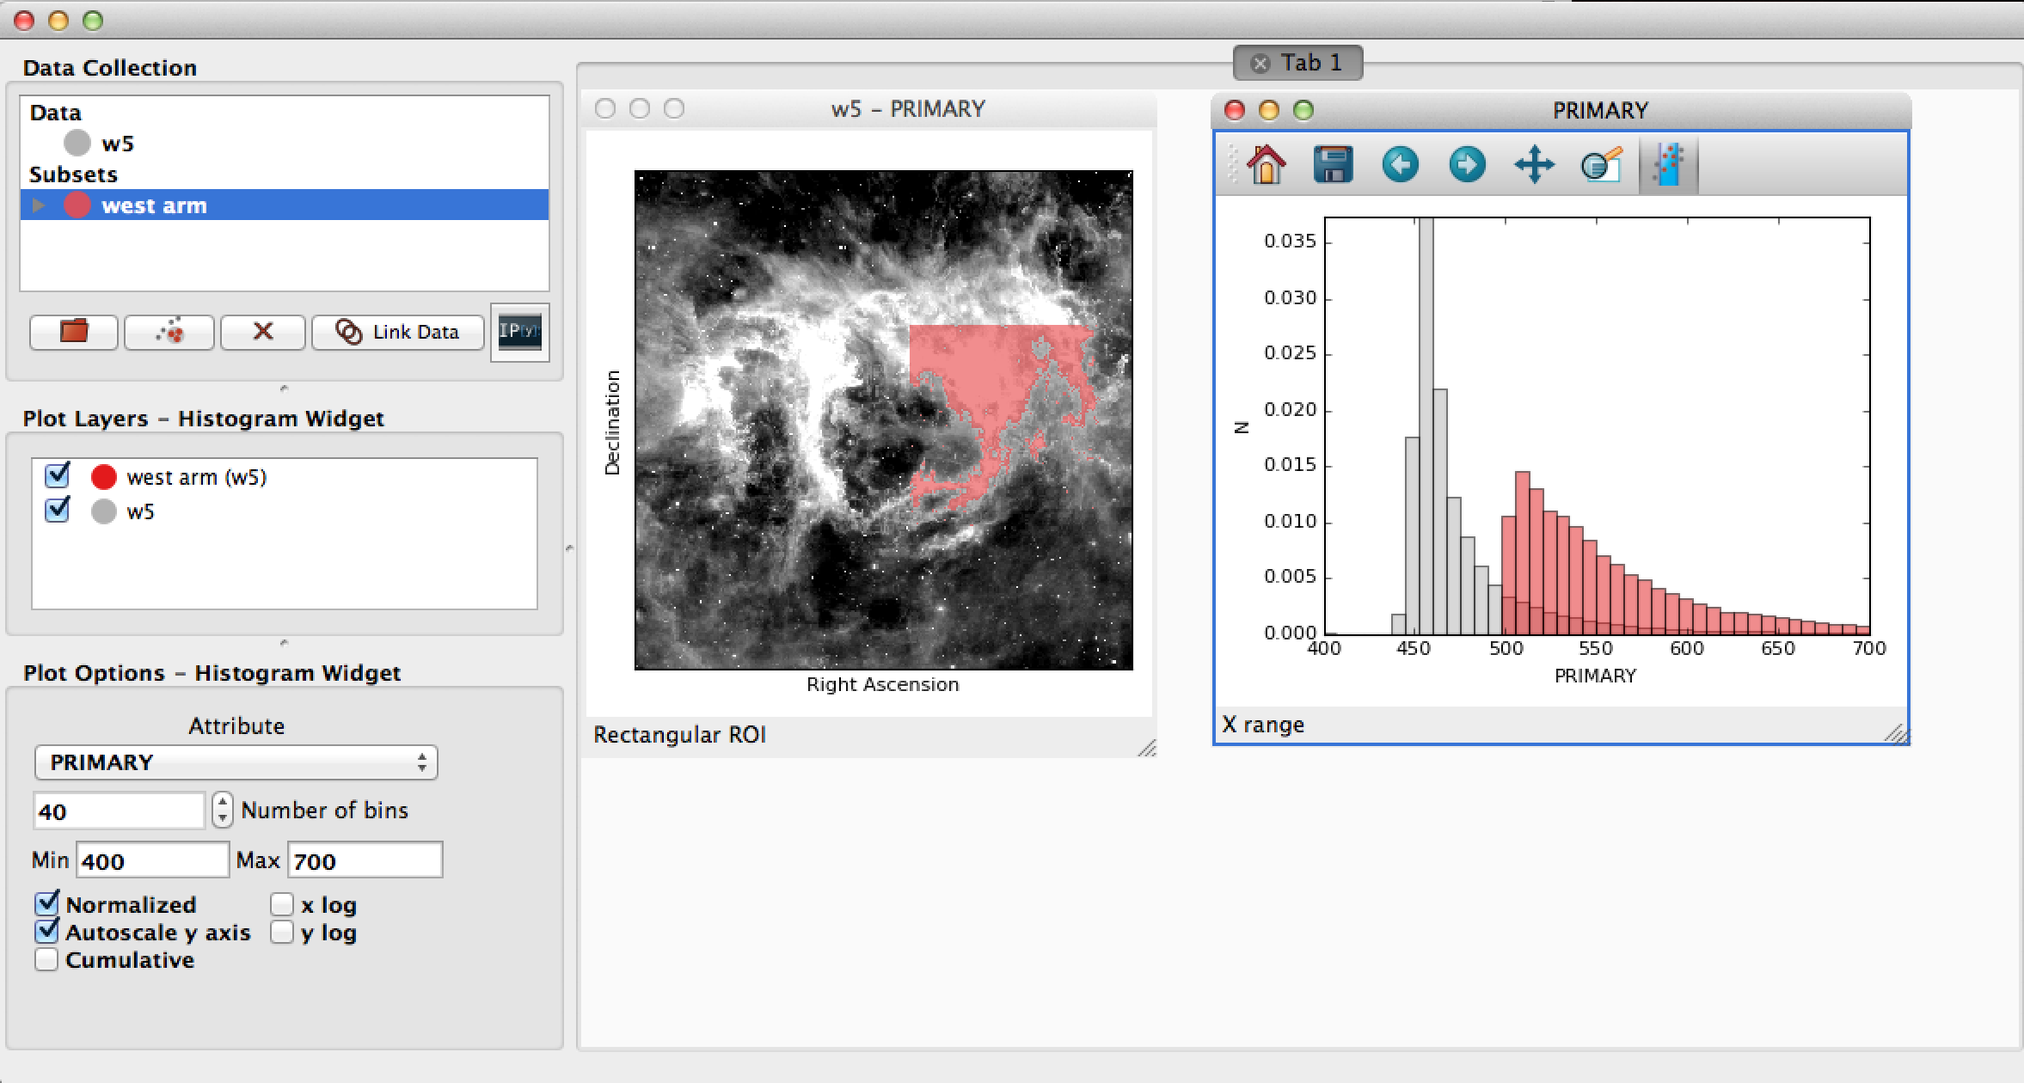
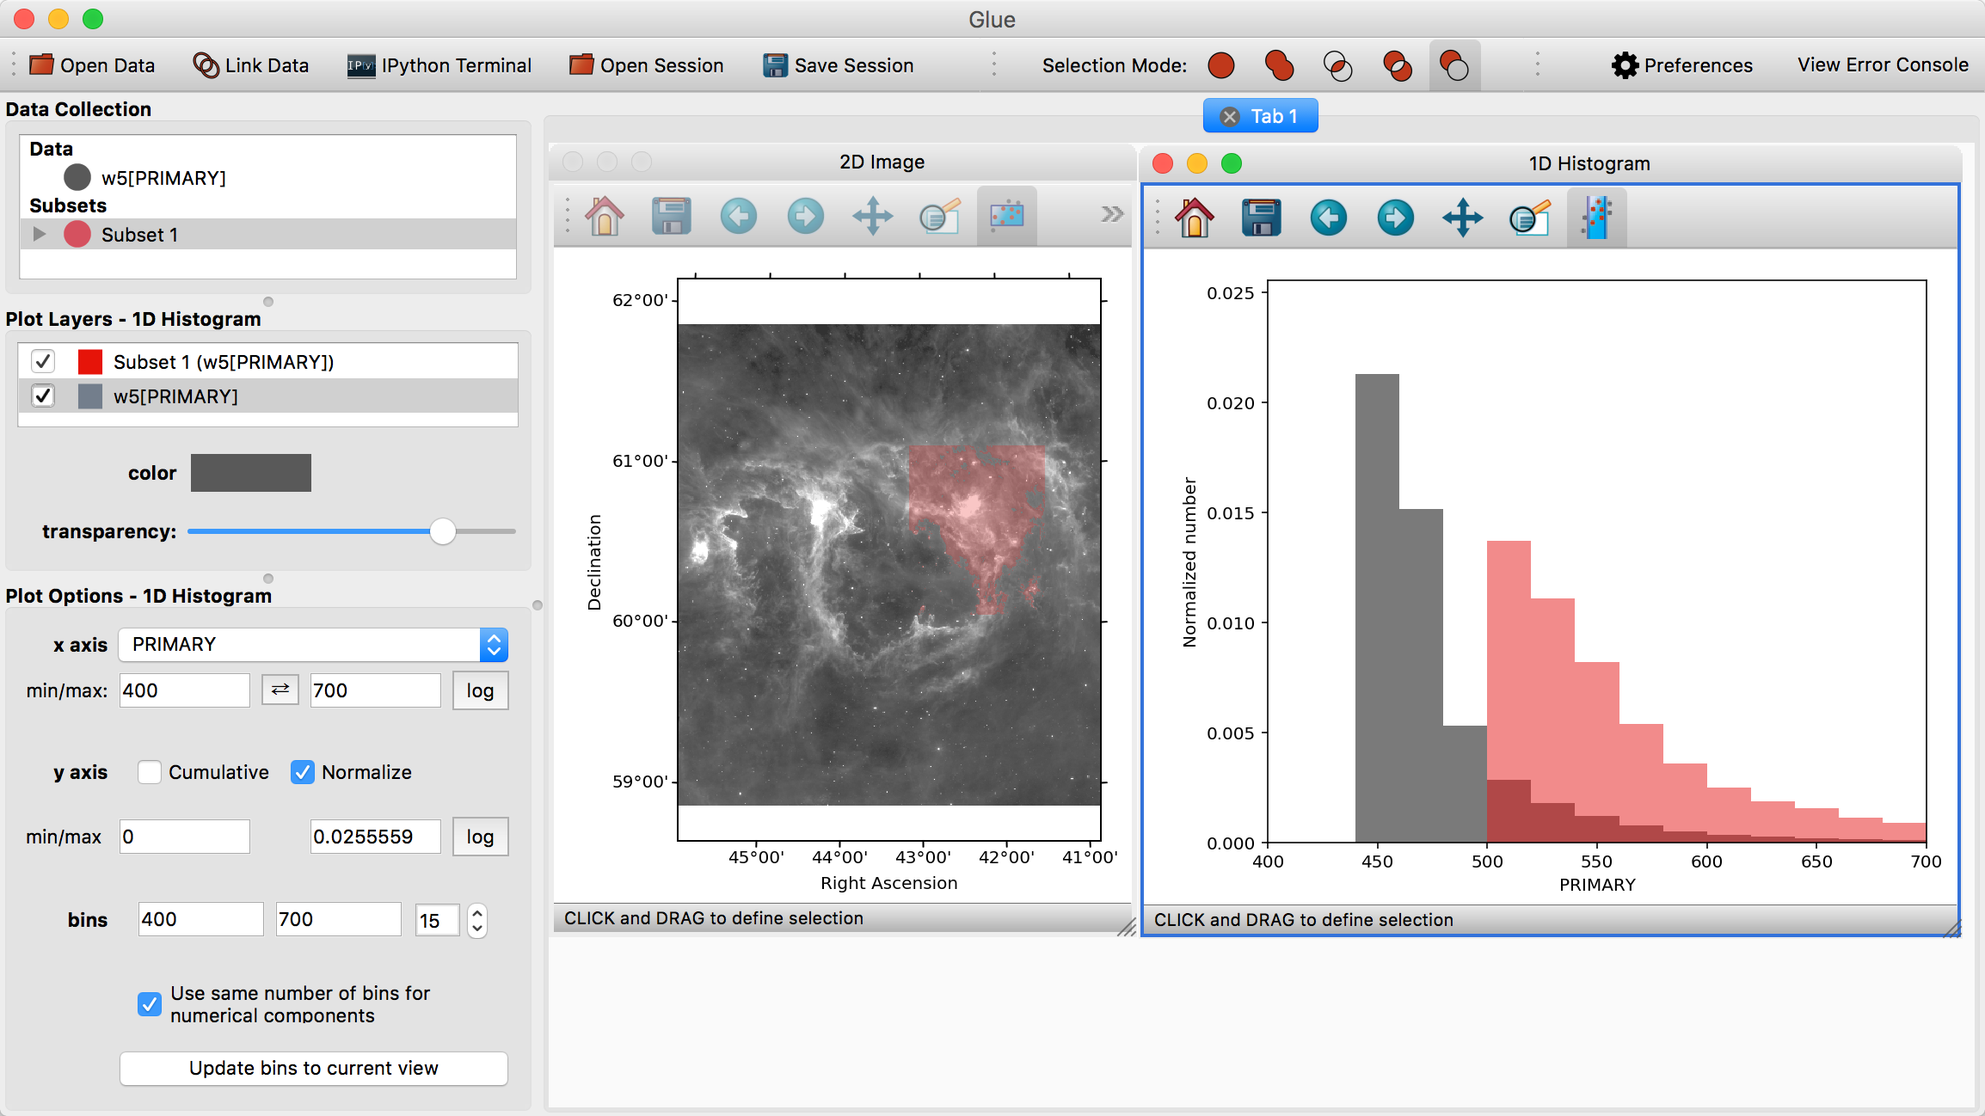
Update getting started guide with new screenshots and updated text

diff --git a/doc/getting_started/index.rst b/doc/getting_started/index.rst
@@ -9,137 +9,204 @@ forming region as an example. You can download the data files for this tutorial 
 * :download:`w5.tgz` (Linux and MacOS X)
 * :download:`w5.zip` (Windows)
 
-After :ref:`installing <installation>` Glue, open the program by either double
-clicking on the icon (if using a pre-built application) or from the command
-line::
+After :ref:`installing <installation>` Glue, you can launch it by typing::
 
     glue
 
+or by clicking on the Glue icon in the Anaconda Navigator if using it. After a
+few seconds you should see the main window of glue which looks like this:
+
 .. figure:: images/main_window.png
    :align: center
-   :width: 500px
+   :width: 100%
 
-   Glue's main interface
+The main window consists of 4 areas:
 
-The main window consists of 3 areas:
-
- A. The **data manager**. This lists all open data sets and subsets (highlighted regions).
- B. The **visualization area**. This is where each visualization window resides.
- C. The **visualization dashboard**. This shows the options for the active visualization window.
-
+ A. The **data collection**. This lists all open data sets and subsets (highlighted regions).
+ B. The **viewer layers**. This is where you will see a list of layers in the current viewer, and be able to control the appearance of individual layers
+ C. The **viewer options**. This is where you will see global options for the active viewer
+ D. The **visualization canvas**. This is where visualization windows resides.
 
 Opening Data
 ============
-There are three ways to open data: By clicking on the red folder icon, the ``File->Open Data Set`` menu, or ``Ctrl+O`` (``Cmd+O`` on the Mac). Find and open the file ``w5.fits``. This is a `WISE image <http://wise.ssl.berkeley.edu/>`_ of the `W5 Star Forming Region <http://en.wikipedia.org/wiki/Soul_Nebula>`_.
+
+There are multiple ways to open data:
+
+* By clicking on the red folder icon in the top left
+* By selecting the **Open Data Set** item under the **File** menu or using the
+  equivalent shortcut (e.g. **Ctrl+O** on Linux, **Cmd+O** on Mac).
+* By dragging and dropping data files onto the main window
+
+  Find and open the file ``w5.fits`` which should be in the ``w5.tgz`` or
+  ``w5.zip`` archive you downloaded above. This is a `WISE image
+  <http://wise.ssl.berkeley.edu/>`_ of the `W5 Star Forming Region
+  <http://en.wikipedia.org/wiki/Soul_Nebula>`_. While this is an astronomical
+  dataset, glue can be used for data in any discipline, and many of the concepts
+  shown below are applicable to many types of dataset.
 
 Plotting Data
 =============
-After opening ``w5.fits``, a new entry will appear in the data manger:
+
+After opening ``w5.fits``, a new entry will appear in the data manager:
 
 .. figure:: images/data_open.png
    :align: center
-   :width: 500px
+   :width: 100%
 
-To visualize a dataset, click and drag the entry from the data manager to the visualization dashboard. A popup window asks about what kind of plot to make. Since this is an image, select ``Image``.
+To visualize a dataset, click and drag the entry from the data manager to the
+visualization dashboard. A popup window asks about what kind of plot to make.
+Since this is an image, select **2D Image Viewer**.
 
 Defining Subsets
 ================
-Work in glue revolves around "drilling down" into interesting subsets within data. Each visualization type (image, scatterplot, …) provides different ways for defining these subsets. In particular, the image window provides 4 options:
 
- .. figure:: images/image_selectors.png
+Work in glue revolves around "drilling down" into interesting subsets within
+data. Each visualization type (image, scatterplot, ...) provides different ways
+for defining these subsets. In particular, the image window provides 5 options:
 
-* Rectangular selection: When active, a click+drag defines rectangular regions of interest.
-* Circular selection: Defines circles.
-* Freeform selection: Defines arbitrary polygons.
-* Contour selection: Uses the contour line that passes through the mouse.
+.. figure:: images/image_selectors.png
+   :align: center
+   :width: 300
+
+* Rectangular selection
+* Horizontal range
+* Vertical range
+* Circular selection
+* Freeform selection
+
+To use these, click on one of the selection icons then click and drag on the
+image to define a selection. If using the polygon selection, you should press
+'enter' when the selection is complete (or 'escape' to cancel).
 
 We can highlight the west arm of W5 using the rectangle selector:
 
  .. figure:: images/w5_west.png
     :align: center
-    :width: 500px
+    :width: 100%
 
-Notice that this highlights the relevant pixels in the image, adds a new subset (which we've named ``west arm``) to the data manager, and adds a new visualization layer (also labeled ``west arm (w5)``) in the visualization dashboard.
+Notice that this highlights the relevant pixels in the image, adds a new subset
+(named **Subset 1**) to the data manager, and adds a new visualization layer in
+the visualization dashboard.
 
 We can redefine this subset by dragging a new rectangle in the image, or we can
 also move around the current subset by pressing the 'control' key and clicking
-on the subset then dragging it. Alternately, we could define a second subset by
-clicking the ``New Subset`` button (next to the folder button).
+on the subset then dragging it. As long as **Subset 1** is selected in the data
+collection view in the top left, drawing selections will redefine **Subset 1**.
+If you un-select this subset and draw a new region, a new subset will be
+created.
 
-.. _multi_selection_note:
-.. note:: When multiple subsets are defined, only the highlighted entries in the data manager are affected when drawing new subsets. If no subsets are highlighted, then a new subset is created.
-
-You can edit the properties of a visualization layer (color, name, etc.) By double-clicking on the entry in the visualization dashboard.
-
-  .. figure:: images/layer_options.png
-     :align: center
-     :width: 200px
-
-Likewise, you can re-arrange the rows in this widget to change the order in which each layer is drawn -- the top entry will appear above all other entries.
+You can edit the properties of a visualization layer (color, transparency, etc.)
+by clicking on the layer in the **Plot layers** list on the left. Likewise, you
+can re-arrange the rows in this widget to change the order in which each layer
+is drawn -- the top entry will appear above all other entries.
 
 Refining Subsets and Linked Views
 =================================
-Visualizations are linked in Glue -- that is, we can plot this data in many different ways, to better understand the properties of each subset. To see this, click and drag the ``W5`` entry into the visualization area a second time, and make a histogram. Edit the settings in the histogram visualization dashboard to produce something similar to this:
+
+Visualizations are linked in Glue -- that is, we can plot this data in many
+different ways, to better understand the properties of each subset. To see this,
+click and drag the **W5[PRIMARY]** entry into the visualization area a second
+time, and make a histogram. Edit the settings in the histogram visualization
+dashboard to produce something similar to this:
 
  .. figure:: images/histogram.png
     :align: center
-    :width: 500px
+    :width: 100%
 
-This shows the distribution of intensities for the image as a whole (gray), and for the subset in red (the label ``PRIMARY`` comes from the FITS header)
+This shows the distribution of intensities for the image as a whole (gray), and
+for the subset in red (the label **PRIMARY** comes from the FITS header)
 
-Perhaps we wish to remove faint pixels from our selection. To do this, we first enable the selection mode toolbar via ``Toolbars->Selection Mode Toolbar``, and then pick the last mode (``Remove From Selection`` mode).:
+Perhaps we wish to remove faint pixels from our selection. To do this, we pick
+the last mode (**Remove From Selection**) from the selection mode toolbar:
 
  .. figure:: images/modes.png
     :align: center
+    :width: 300
 
-When this mode is active, new regions defined by the mouse are subtracted from the selected subsets. Thus, I can highlight the region between x=450-500 in the histogram to remove this region from the data.
+When this mode is active, new regions defined by the mouse are subtracted from
+the selected subsets. We can therefore highlight the region between x=450-500 in
+the histogram to remove this region from the data.
 
 .. figure:: images/subset_refine.png
    :align: center
-   :width: 500px
+   :width: 100%
 
-.. note:: Make sure you switch back to the first, default combination mode (``Replace Selection`` mode)
+.. note:: Make sure you switch back to the first, default selection mode
+          (**Replace Selection**) once you have finished defining the
+          selection.
 
 Linking Data
 ============
+
 .. _getting_started_link:
 
-Glue is designed so that visualization and drilldown can span multiple datasets. To do this, we need to inform Glue about the logical connections that exist between each dataset.
+Glue is designed so that visualization and drilldown can span multiple datasets.
+To do this, we need to inform Glue about the logical connections that exist
+between each dataset.
 
-Open ``w5_psc.vot`` -- a catalog of *Spitzer*-identified point sources towards this region. You will see a new entry in the data manager.
+Open the second file, ``w5_psc.vot`` -- a catalog of *Spitzer*-identified point
+sources towards this region. You will see a new entry in the data manager. We
+can double click on that entry to rename it to **Point Sources**, and the result
+will look like this:
 
 .. figure:: images/psc_layer.png
    :align: center
    :width: 400px
 
-At this point, you can visualize and drilldown into this catalog. However, Glue doesn't know enough to intercompare the catalog and image. To do that, we must ``Link`` these two data entries. Click on the ``Link Data`` button in the data manager. This brings up a new window, showing all the pieces of information within each dataset:
+At this point, you can visualize and drilldown into this catalog. However, Glue
+doesn't know enough to intercompare the catalog and image. To do that, we must
+*Link* these two data entries. Click on the ``Link Data`` button in the toolbar.
+This brings up a new window, showing all the pieces of information within each
+dataset:
 
 .. figure:: images/link_editor.png
    :align: center
-   :width: 400px
 
-The image has an attribute ``Right Ascension``. This is the same quantity as the ``RAJ2000`` attribute in the ``w5_psc`` catalog -- they are both describing Right Ascension (the horizontal spatial coordinate on the sky). Select these entries, and click ``Glue`` to instruct the program that these quantities are equivalent. Likewise, link ``Declination`` and ``DEJ2000`` (Declination, the other coordinate). Click ``OK``.
+The image has an attribute **Right Ascension**. This is the same quantity as the
+**RAJ2000** attribute in the **Point Sources** dataset -- they are both
+describing Right Ascension (the horizontal spatial coordinate on the sky).
+Select these entries, and click **Glue** to instruct the program that these
+quantities are equivalent. Likewise, link **Declination** and **DEJ2000**
+(Declination, the other coordinate). Click **OK**.
 
-.. note::
-   What does this do? This tells Glue how to derive the catalog-defined quantities ``DEJ2000`` and ``RAJ2000`` using data from the image, and vice versa. In this case, the derivation is simple (it aliases the quantity ``Declination`` or ``Right Ascension``). In general, the derivation can be more complex (i.e. an arbitrary function that maps quantities in the image to a quantity in the catalog). Glue uses this information to apply subset definitions to different data sets, overplot multiple datasets, etc.
+.. note:: What does this do? This tells Glue how to derive the catalog-defined
+          quantities **DEJ2000** and **RAJ2000** using data from the image, and
+          vice versa. In this case, the derivation is simple (it aliases the
+          quantity **Declination** or **Right Ascension**). In general, the
+          derivation can be more complex (i.e. an arbitrary function that maps
+          quantities in the image to a quantity in the catalog). Glue uses this
+          information to apply subset definitions to different data sets,
+          overplot multiple datasets, etc.
 
-After these connections are defined, subsets that are defined via spatial constraints in the image can be used to filter rows in the catalog. Let's see how that works.
+After these connections are defined, subsets that are defined via spatial
+constraints in the image can be used to filter rows in the catalog. Let's see
+how that works.
 
-First, make a scatter plot of the point source catalog. Then, delete the West Arm subset (by highlighting it and clicking the ``X`` button). Then, highlight a new region in the image. You should see this selection applied to both plots:
+First, make a scatter plot of the point source catalog. Then, select **Subset
+1** and draw a new region on the image. You should see this selection applied to
+all plots:
 
 .. figure:: images/link_subset_1.png
    :align: center
-   :width: 500px
+   :width: 100%
 
-You can also overplot the catalog rows on top of the image. To do this, click the arrow next to the new subset -- this shows the individual selections applied to each dataset. Click and drag the subset for the point source catalog on top of the image. To see these points more easily, you may want to disable the
-selection applied to the image itself by unchecking the `East arm (w5)` entry in the plot layer window.
+You can also overplot the catalog rows on top of the image. To do this, click
+the arrow next to the new subset -- this shows the individual selections applied
+to each dataset. Click and drag the subset for the point source catalog on top
+of the image. To see these points more easily, you may want to disable the
+layer showing all the points (named **Point Sources**) in the list of plot
+layers.
 
 .. figure:: images/link_subset_2.png
    :align: center
-   :width: 500px
+   :width: 100%
 
 
-Glue is able to apply this filter to both datasets because it has enough information to apply the spatial constraint in the image (fundamentally, a constraint on ``Right Ascension`` and ``Declination``) to a constraint in the catalog (since it could derive thsoe quantities from the ``RAJ2000`` and ``DEJ2000`` attributes).
+Glue is able to apply this filter to both datasets because it has enough
+information to apply the spatial constraint in the image (fundamentally, a
+constraint on **Right Ascension** and **Declination**) to a constraint in the
+catalog (since it could derive those quantities from the **RAJ2000** and
+**DEJ2000** attributes).
 
 .. tip::
 
@@ -149,22 +216,35 @@ Glue is able to apply this filter to both datasets because it has enough informa
     y < top). Copying a subset copies this definition, and pasting it
     applies the definition to a different subset.
 
-As was mentioned :ref:`above <multi_selection_note>`, the highlighted subsets in the data manager are the ones which are affected by selecting regions in the plots. Thus, instead of manually copy-pasting subsets from the image to the catalog, you can also highlight both subsets before selecting a plot region. This will update both subsets to match the selection.
+As was mentioned above, the highlighted subsets in the data manager are the ones
+which are affected by selecting regions in the plots. Thus, instead of manually
+copy-pasting subsets from the image to the catalog, you can also highlight both
+subsets before selecting a plot region. This will update both subsets to match
+the selection.
 
-.. note:: Careful readers will notice that we didn't use the image subset from earlier sections when working with the catalog. This is because that selection combined spatial constraints (the original rectangle in the image) with a constraint on intensity (the histogram selection). There is no mapping from image intensity to quantities in the catalog, so it isn't possible to filter the catalog on that subset. In situations where Glue is unable to apply a filter to a dataset, it doesn't render the subset in the visualization.
-
+.. note:: Careful readers will notice that we didn't use the image subset
+          from earlier sections when working with the catalog. This is because
+          that selection combined spatial constraints (the original rectangle in
+          the image) with a constraint on intensity (the histogram selection).
+          There is no mapping from image intensity to quantities in the catalog,
+          so it isn't possible to filter the catalog on that subset. In
+          situations where Glue is unable to apply a filter to a dataset, it
+          doesn't render the subset in the visualization.
 
 .. _saving_session:
 
 Saving your work
 ================
-Glue provides a number of ways to save your work, and to export your work for further analysis in other programs.
+
+Glue provides a number of ways to save your work, and to export your work for
+further analysis in other programs.
 
 **Saving The Session**
 
-You can save a Glue session for later work via the ``File->Save Session``
-menu. This creates a glue session file (the preferred file extension is
-``.glu``). You can restore this session later via ``File->Open Session``.
+You can save a Glue session for later work via the **Save Session** button in
+the toolbar or in the **File** menu. This creates a glue session file (the
+preferred file extension is ``.glu``). You can restore this session later via
+the **Open Session** button in the toolbar or in the **File** menu.
 
 By default, these files store references to the files you opened, and not
 copies of the files themselves. Thus, you won't be able to re-load this
@@ -175,26 +255,20 @@ session file, you can select 'Glue Session including data' when saving:
    :align: center
    :width: 400px
 
-
-**Exporting the plots**
-Glue can export certain kinds of plot combinations to other formats and web services.
-
-`Plot.ly <http://plot.ly>`_ is a cloud-based plot service whose features include the ability to tweak plot features (colors, annotations, etc.) through a GUI, and to easily share plots via web URLs. If your Glue session contains four or fewer scatter plots and/or histograms, these can be exported to a plotly page.
-
-To do this, first sign up for a plotly account, and enter your user name and API key under ``File->Edit Settings``. Then, select ``File->Export->Plotly``. This will create a new plot, and open a browser window showing you the plot.
-
-**Exporting to D3PO**
-
-`D3PO <http://d3po.org>`_ is an application created by `Adrian Price Whelan <http://adrian.pw>`_, `Josh Peek <http://user.astro.columbia.edu/~jpeek/>`_ and others to create multi-stage "data stories". Glue can export to the D3PO format under the following conditions:
-
-  - Only scatterplots or histograms are used.
-  - A single dataset is used.
-  - Only one subset is visible within the viewers of each Glue tab.
-
-Saving a session via ``File->Export->D3PO`` creates a directory with thee files that convert the Glue plots to a minimal D3PO page. Glue will also start a small webserver and open a browser window to show you the exported page.
-
 **Saving Plots**
-Static images of individual visualizations can be saved by clicking the floppy disk icon on a given visualization window.
+
+Static images of individual visualizations can be saved by clicking the floppy
+disk icon on a given visualization window. There are also exporters available
+under the **File** menu - built-in exporters include one to export plots to the
+`plotly <https://plot.ly>`_ service, and one to export plots using
+`D3PO <https://github.com/adrn/d3po>`_.
 
 **Saving Subsets**
-Glue is primarily an exploration environment -- eventually, you may want to export subsets for further analysis. Glue currently supports saving subsets as FITS masks. Right click on the subset in the data manager, and select ``Save Subset`` to write the subset to disk. This file will have the same shape as the original data, and will contain a 1/0 indicating whether that element is part of the subset.
+
+Glue is primarily an exploration environment -- eventually, you may want to
+export subsets for further analysis. Glue currently supports saving subsets as
+FITS masks. Right click on the subset in the data manager (note that you need to
+select the subset applied to a specific dataset, not the overall subset, so be
+sure to expand the subset by clicking on the triangle on the left of the subset
+name), and select **Export subset values** or **Export subset mask(s)** to write
+the subset to disk.
